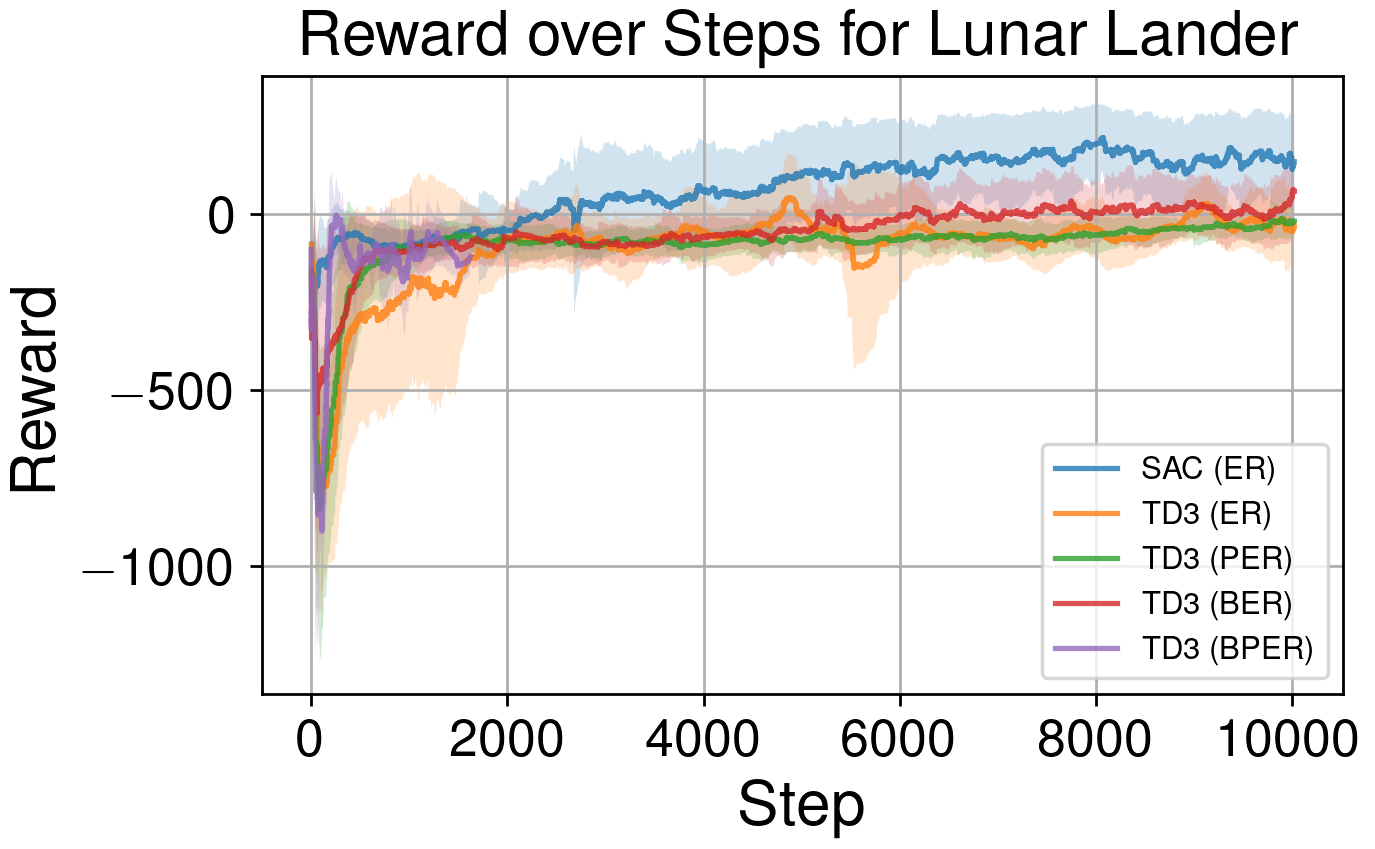
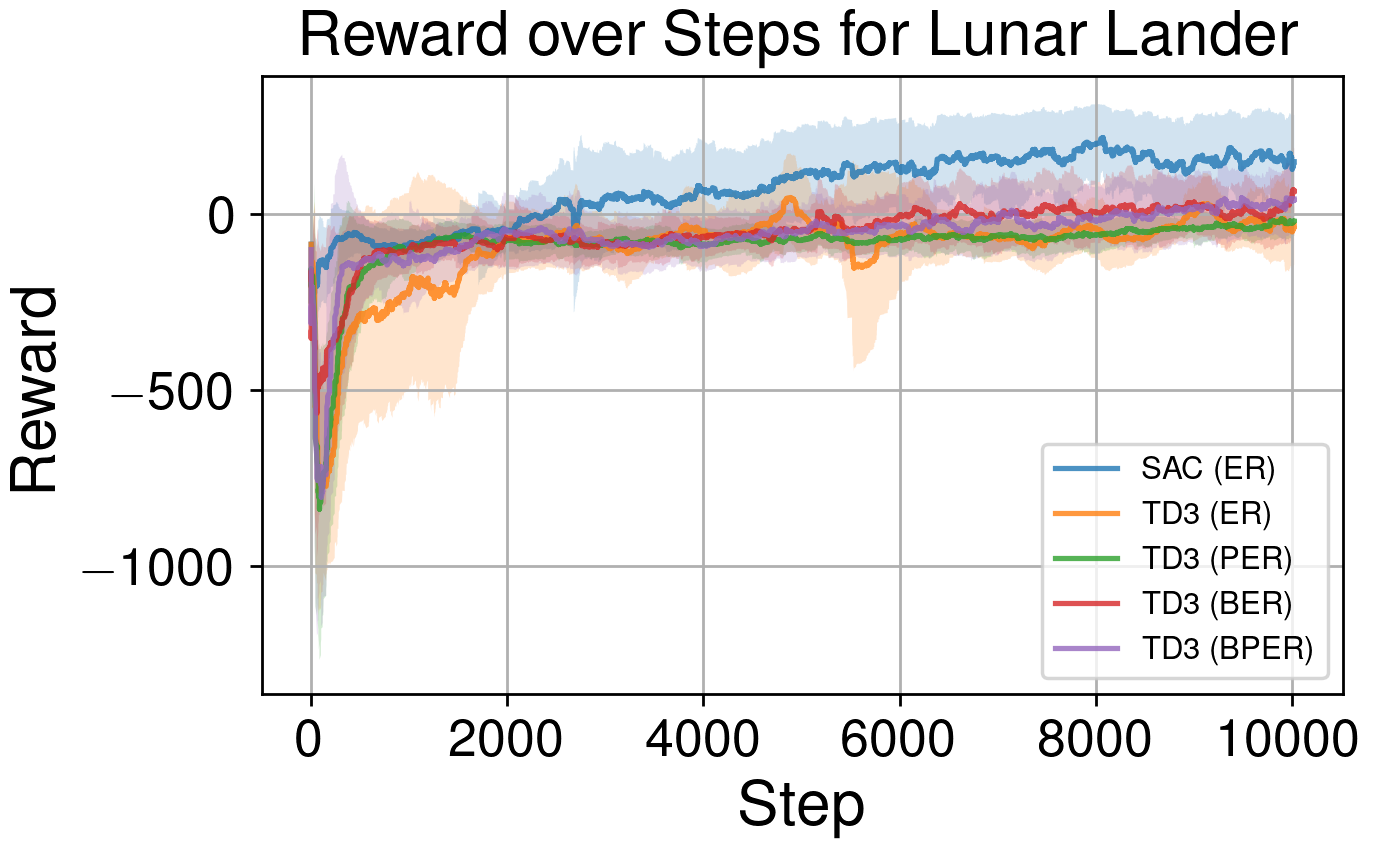
Added evaluation simple and buffer

Changed region(s): [[0.2138, 0.1837, 0.9469, 0.6125], [0.336, 0.8575, 0.3971, 0.8881], [0.2138, 0.8575, 0.2444, 0.8881]]

diff --git a/report/tables/hyperparameters_tables.tex b/report/tables/hyperparameters_tables.tex
@@ -1,67 +1,49 @@
-
-\begin{table}[htbp]
-    \centering
-    \caption{Hyperparameter Summary for Pendulum}
-    \label{tab:hyperparameters_pendulum}
-    \begin{tabular}{|l|l|l|l|l|l|}
-        \hline
-        \textbf{Agent} & \textbf{Noise} & \textbf{Actor Sizes} & \textbf{Critic Sizes} & \textbf{Buffer Type} & \textbf{Discount} \\ \hline
-
-        TD3 & $\sigma$=0.2, clip=0.8, $\beta$=1.0 & [128, 128] & [128, 128, 64] & ER & 0.95 \\ \hline
-
-        TD3 & $\sigma$=0.2, clip=0.8, $\beta$=1.0 & [128, 128] & [128, 128, 64] & BER & 0.95 \\ \hline
-
-        TD3 & $\sigma$=0.2, clip=0.8, $\beta$=1.0 & [128, 128] & [128, 128, 64] & PER & 0.95 \\ \hline
-
-        TD3 & $\sigma$=0.2, clip=0.8, $\beta$=1.0 & [128, 128] & [128, 128, 64] & BPER & 0.95 \\ \hline
-
-        SAC & N/A & [512, 256] & [512, 256, 64] & ER & 0.98 \\ \hline
-
-    \end{tabular}
+\begin{table}[H]
+\caption{Hyperparameter Summary for Pendulum }\centering {}
+\label{tab:hyperparameters_pendulum}
+\begin{tabular}{llllll}
+\toprule
+Agent & Noise & Actor Sizes & Critic Sizes & Buffer Type & Discount \\
+\midrule
+TD3 & $\sigma$=0.2, clip=0.8, $\beta$=1.0 & [128, 128] & [128, 128, 64] & ER & 0.95 \\
+TD3 & $\sigma$=0.2, clip=0.8, $\beta$=1.0 & [128, 128] & [128, 128, 64] & BER & 0.95 \\
+TD3 & $\sigma$=0.2, clip=0.8, $\beta$=1.0 & [128, 128] & [128, 128, 64] & PER & 0.95 \\
+TD3 & $\sigma$=0.2, clip=0.8, $\beta$=1.0 & [128, 128] & [128, 128, 64] & BPER & 0.95 \\
+SAC & N/A & [512, 256] & [512, 256, 64] & ER & 0.98 \\
+\bottomrule
+\end{tabular}
 \end{table}
 
 
-
-\begin{table}[htbp]
-    \centering
-    \caption{Hyperparameter Summary for LunarLander}
-    \label{tab:hyperparameters_lunarlander}
-    \begin{tabular}{|l|l|l|l|l|l|}
-        \hline
-        \textbf{Agent} & \textbf{Noise} & \textbf{Actor Sizes} & \textbf{Critic Sizes} & \textbf{Buffer Type} & \textbf{Discount} \\ \hline
-
-        TD3 & $\sigma$=0.2, clip=0.8, $\beta$=1.0 & [256, 256] & [256, 256, 128] & ER & 0.98 \\ \hline
-
-        TD3 & $\sigma$=0.2, clip=0.8, $\beta$=1.0 & [256, 256] & [256, 256, 128] & BER & 0.98 \\ \hline
-
-        TD3 & $\sigma$=0.2, clip=0.8, $\beta$=1.0 & [256, 256] & [256, 256, 128] & PER & 0.98 \\ \hline
-
-        TD3 & $\sigma$=0.2, clip=0.8, $\beta$=1.0 & [256, 256] & [256, 256, 128] & BPER & 0.98 \\ \hline
-
-        SAC & N/A & [512, 256] & [512, 256, 64] & ER & 0.98 \\ \hline
-
-    \end{tabular}
+\begin{table}[H]
+\caption{Hyperparameter Summary for LunarLander }\centering {}
+\label{tab:hyperparameters_lunarlander}
+\begin{tabular}{llllll}
+\toprule
+Agent & Noise & Actor Sizes & Critic Sizes & Buffer Type & Discount \\
+\midrule
+TD3 & $\sigma$=0.2, clip=0.8, $\beta$=1.0 & [256, 256] & [256, 256, 128] & ER & 0.98 \\
+TD3 & $\sigma$=0.2, clip=0.8, $\beta$=1.0 & [256, 256] & [256, 256, 128] & BER & 0.98 \\
+TD3 & $\sigma$=0.2, clip=0.8, $\beta$=1.0 & [256, 256] & [256, 256, 128] & PER & 0.98 \\
+TD3 & $\sigma$=0.2, clip=0.8, $\beta$=1.0 & [256, 256] & [256, 256, 128] & BPER & 0.98 \\
+SAC & N/A & [512, 256] & [512, 256, 64] & ER & 0.98 \\
+\bottomrule
+\end{tabular}
 \end{table}
 
 
-
-\begin{table}[htbp]
-    \centering
-    \caption{Hyperparameter Summary for HalfCheetah}
-    \label{tab:hyperparameters_halfcheetah}
-    \begin{tabular}{|l|l|l|l|l|l|}
-        \hline
-        \textbf{Agent} & \textbf{Noise} & \textbf{Actor Sizes} & \textbf{Critic Sizes} & \textbf{Buffer Type} & \textbf{Discount} \\ \hline
-
-        TD3 & $\sigma$=0.2, clip=0.8, $\beta$=1.0 & [256, 256] & [256, 256, 128] & ER & 0.95 \\ \hline
-
-        TD3 & $\sigma$=0.2, clip=0.8, $\beta$=1.0 & [256, 256] & [256, 256, 128] & BER & 0.95 \\ \hline
-
-        TD3 & $\sigma$=0.2, clip=0.8, $\beta$=1.0 & [256, 256] & [256, 256, 128] & PER & 0.95 \\ \hline
-
-        TD3 & $\sigma$=0.2, clip=0.8, $\beta$=1.0 & [256, 256] & [256, 256, 128] & BPER & 0.95 \\ \hline
-
-        SAC & N/A & [512, 256] & [512, 256, 64] & ER & 0.98 \\ \hline
-
-    \end{tabular}
+\begin{table}[H]
+\caption{Hyperparameter Summary for HalfCheetah }\centering {}
+\label{tab:hyperparameters_halfcheetah}
+\begin{tabular}{llllll}
+\toprule
+Agent & Noise & Actor Sizes & Critic Sizes & Buffer Type & Discount \\
+\midrule
+TD3 & $\sigma$=0.2, clip=0.8, $\beta$=1.0 & [256, 256] & [256, 256, 128] & ER & 0.95 \\
+TD3 & $\sigma$=0.2, clip=0.8, $\beta$=1.0 & [256, 256] & [256, 256, 128] & BER & 0.95 \\
+TD3 & $\sigma$=0.2, clip=0.8, $\beta$=1.0 & [256, 256] & [256, 256, 128] & PER & 0.95 \\
+TD3 & $\sigma$=0.2, clip=0.8, $\beta$=1.0 & [256, 256] & [256, 256, 128] & BPER & 0.95 \\
+SAC & N/A & [512, 256] & [512, 256, 64] & ER & 0.98 \\
+\bottomrule
+\end{tabular}
 \end{table}

diff --git a/report/plots/generate_hyperparams.py b/report/plots/generate_hyperparams.py
@@ -1,9 +1,19 @@
 import os
 
+import pandas as pd
 import yaml
 
 
-def parse_yaml_to_latex_tables(yaml_file):
+def parse_yaml_to_latex_tables_with_pandas(yaml_file):
+    """
+    Parse a YAML file and generate LaTeX tables using Pandas' to_latex method.
+
+    Args:
+        yaml_file (str): Path to the YAML file.
+
+    Returns:
+        str: A string containing LaTeX tables for all environments.
+    """
     # Load the YAML file
     with open(yaml_file, "r") as file:
         data = yaml.safe_load(file)
@@ -26,18 +36,8 @@ def parse_yaml_to_latex_tables(yaml_file):
         if not agents:
             continue
 
-        # Start building the LaTeX table for the current environment
-        latex_table = f"""
-\\begin{{table}}[htbp]
-    \\centering
-    \\caption{{Hyperparameter Summary for {env_name}}}
-    \\label{{tab:hyperparameters_{env_name.lower()}}}
-    \\begin{{tabular}}{{|l|l|l|l|l|l|}}
-        \\hline
-        \\textbf{{Agent}} & \\textbf{{Noise}} & \\textbf{{Actor Sizes}} & \\textbf{{Critic Sizes}} & \\textbf{{Buffer Type}} & \\textbf{{Discount}} \\\\ \\hline
-        """
-
-        # Add rows for each agent in the environment
+        # Create a DataFrame for the current environment
+        rows = []
         for agent_name, agent_data in agents:
             algorithm = agent_data.get("type", "N/A").upper()
             noise = (
@@ -50,16 +50,33 @@ def parse_yaml_to_latex_tables(yaml_file):
             buffer_type = agent_data.get("buffer_type", "ER")
             discount = agent_data.get("discount", "N/A")
 
-            # Add a row to the LaTeX table
-            latex_table += f"""
-        {algorithm} & {noise} & {actor_sizes} & {critic_sizes} & {buffer_type} & {discount} \\\\ \\hline
-            """
+            # Append a row to the DataFrame
+            rows.append(
+                {
+                    "Agent": algorithm,
+                    "Noise": noise,
+                    "Actor Sizes": actor_sizes,
+                    "Critic Sizes": critic_sizes,
+                    "Buffer Type": buffer_type,
+                    "Discount": discount,
+                }
+            )
 
-        # Close the LaTeX table for the current environment
-        latex_table += """
-    \\end{tabular}
-\\end{table}
-        """
+        # Convert rows to a Pandas DataFrame
+        df = pd.DataFrame(rows)
+
+        # Generate LaTeX table using Pandas' to_latex method
+        latex_table = df.to_latex(
+            index=False,  # Do not include the index column
+            caption="Hyperparameter Summary for " + env_name + " }\\centering {",
+            label=f"tab:hyperparameters_{env_name.lower()}",
+            column_format="llllll",  # Align columns with vertical lines
+            float_format="%.2f",  # Round values to 2 decimal places
+            escape=False,  # Allow LaTeX symbols like $ in the table
+            position="H",  # Place the table "Here"
+        )
+
+        # Append the LaTeX table to the result
         latex_tables += latex_table + "\n\n"
 
     return latex_tables
@@ -67,7 +84,7 @@ def parse_yaml_to_latex_tables(yaml_file):
 
 # Use the function to generate the LaTeX tables
 yaml_file = "../../config/temp.yaml"  # Replace with the path to your YAML file
-latex_tables = parse_yaml_to_latex_tables(yaml_file)
+latex_tables = parse_yaml_to_latex_tables_with_pandas(yaml_file)
 goal = "../tables/hyperparameters_tables.tex"
 
 os.makedirs(os.path.dirname(goal), exist_ok=True)

diff --git a/report/plots/small_eval.py b/report/plots/small_eval.py
@@ -1,4 +1,5 @@
 import os
+from turtle import position
 
 import matplotlib.pyplot as plt
 import pandas as pd
@@ -161,6 +162,86 @@ def plot_metrics(data, b2n, m2w, metrics, environments):
             plt.savefig(f"../images/small_eval_{env}_{metric}.png")
 
 
+def create_avg_reward_table_latex(data):
+    """
+    Create a table with the average reward for each environment and algorithm,
+    using only the last 100 steps, round values to 2 decimal places, format the
+    best scores in bold, sort by custom order, and export it to LaTeX.
+
+    Args:
+        data (pd.DataFrame): The combined DataFrame containing all environments and metrics.
+
+    Returns:
+        str: A LaTeX-formatted table as a string.
+    """
+    order = {
+        "sac-er": 0,
+        "td3-er": 1,
+        "td3-per": 2,
+        "td3-ber": 3,
+        "td3-bper": 4,
+    }
+
+    # Filter for the "Reward" metric
+    reward_data = data[data["Metric"] == "Reward"]
+
+    # Filter to include only the last 100 steps for each Environment and Algorithm-Buffer
+    last_100_steps = (
+        reward_data.groupby(["Environment", "Algorithm-Buffer"])
+        .apply(lambda group: group.nlargest(100, "Step"))
+        .reset_index(drop=True)
+    )
+
+    # Group by Environment and Algorithm-Buffer, then calculate the mean reward
+    avg_rewards = (
+        last_100_steps.groupby(["Environment", "Algorithm-Buffer"])["Value"]
+        .mean()
+        .reset_index()
+    )
+
+    # Round the values to 2 decimal places
+    avg_rewards["Value"] = avg_rewards["Value"].round(2)
+
+    # Pivot the table for better readability
+    reward_table = avg_rewards.pivot(
+        index="Environment", columns="Algorithm-Buffer", values="Value"
+    )
+
+    reward_table = reward_table[
+        [col for col in sorted(reward_table.columns, key=lambda x: order[x])]
+    ]
+
+    # Rename columns for better readability
+    reward_table.columns = [
+        f"{alg.split('-')[0].upper()} ({buffer2name[alg.split('-')[1]]})"
+        for alg in reward_table.columns
+    ]
+
+    # Reset index for a clean table
+    reward_table.reset_index(inplace=True)
+
+    # Format the best scores per environment in bold
+    for index, row in reward_table.iterrows():
+        max_value = row[1:].max()  # Exclude the 'Environment' column
+        for col in reward_table.columns[1:]:
+            if row[col] == max_value:
+                reward_table.at[index, col] = f"\\textbf{{{row[col]:.2f}}}"
+            else:
+                reward_table.at[index, col] = f"{row[col]:.2f}"
+
+    # Convert the table to LaTeX format
+    latex_table = reward_table.to_latex(
+        index=False,  # Do not include the index in the LaTeX table
+        caption="Average Reward for Simple Environments and Algorithm (Last 100 Steps)}\\centering {",
+        label="tab:avg_reward",
+        column_format="l" + "r" * (len(reward_table.columns) - 1),  # Align columns
+        escape=False,  # Allow LaTeX symbols like \textbf{}
+        position="H",
+    )
+
+    return latex_table
+
+
 plot_metrics(
     copy,
     buffer2name,
@@ -168,3 +249,7 @@ plot_metrics(
     ["Reward", "Loss", "ActorLoss", "AlphaLoss"],
     ["Pendulum", "HalfCheetah", "Lunar Lander"],
 )
+
+reward_table = create_avg_reward_table_latex(copy)
+with open("../tables/avg_reward_table_simple_eval.tex", "w") as f:
+    f.write(reward_table)

diff --git a/report/buffers.tex b/report/buffers.tex
@@ -7,14 +7,3 @@ The basic approach for modelling experience buffers are \ac{ER} buffers \cite{li
 \paragraph{\acl{PER}} \ac{PER} is introduced by \cite{schaul2015prioritized} and focuses on prioritizing experiences with an big \ac{TD}-error. Thus, each experience $j$ has a sampling probability $P(j) = \frac{\delta_j^\alpha}{\sum_{i}\delta_i^\alpha}$, where $\delta_i$ is the \ac{TD}-error of experience $i$ and $\alpha$ is an hyperparameter describing the influence of the priorities. In general, each metric can be used to assign priorities but may lead to a bias towards the sampled data. To further balance the sampling we implement the buffer as SumTrees, which allow sampling and adding data in $O(log\,n)$ and is proposed by \cite{schaul2015prioritized} for more efficient buffers.
 
 \paragraph{\acl{BPER}} \ac{BPER} is a combination of balancing the probability by the memory strength and assigning a priority to the experience. Therefore, we use effective priorities $e_i = p^\alpha_i \cdot s_i$, where $p_i$ is the priority and $s_i$ the memory strength of sample $i$. These effective priorities are then translated into the sampling probability. Furthermore, we use as $p_i$ the normalized reward $r_i' = \frac{r_i - \min_j r_j}{\max_j r_j - \min_j r_j}$, because we want experiences with highest rewards, which introduces a bias towards experiences with high reward. After sampling the experiences, the old rewards of the sampled data are updated with the new rewards.
-
-
-
-% TODO: In Eval
-
-\begin{figure}[ht]
-    \centering
-    \includegraphics[width=0.8\textwidth]{images/buffer_sampling.png}
-    \caption{Sample frequency of the experiences for \ac{ER}, \ac{BER}, \ac{PER} and \ac{BPER}. The X-axis is displayed in log scale and the plot contains the moving average and confidence interval with a window size of $1000$.}
-    \label{fig:buffer}
-\end{figure}

diff --git a/report/reward.tex b/report/reward.tex
@@ -2,4 +2,4 @@
 
 The hockey environment already provides a set of reward signals, including a positive signal for winning, the distance to the ball, contact to the ball and the direction of the pucks' movement. As we observed our early state agents have problems to play the puck when it starts on their side. Therefore, we added  a time penalty which decreases the overall reward for the complete run and a penalty for not touching the not moving puck after $10\%$ of the environment steps.
 
-Additionally, \ac{TD3} with \ac{BPER} has a problem with aggressive game play. Thus, we added reward for touching the ball when it is moving with negative x-velocity. To further force the agent to minimize its distance to the goal center, we added a linear reward for small distances. To combine all signals, we added weights $w_i$ for all reward signals $r_i$ and provide the agent to weighted sum over all signals $R = \sum_{i=1}^8 w_i \cdot r_i$.
+Additionally, \ac{TD3} with \ac{BPER} has a problem with aggressive game play. Thus, we added reward for touching the ball when it is moving with negative x-velocity. To further force the agent to minimize its distance to the goal center, we added a linear reward for small distances. To combine all signals, we added weights $w_i$ for all reward signals $r_i$ and provide the agent the weighted sum over all signals $R = \sum_{i=1}^8 w_i \cdot r_i$.

diff --git a/report/buffer_eval.tex b/report/buffer_eval.tex
@@ -1,0 +1,12 @@
+\subsection{Sampling Behavior of Buffers} \label{subsec:buffer_eval}
+
+To validate the sampling behavior of the implemented buffers, \autoref{fig:buffer} shows the sample frequency for each added time step over 100 samples. The results are generated by adding experiences until the buffer is full. Additionally, \ac{PER} and \ac{BPER} get random \ac{TD}-errors and rewards per experience, to model the expected behavior.
+
+\begin{figure}[h]
+    \centering
+    \includegraphics[width=0.8\textwidth]{images/buffer_sampling.png}
+    \caption{Sample frequency of the experiences for \ac{ER}, \ac{BER}, \ac{PER} and \ac{BPER}. The X-axis is displayed in log scale and the plot contains the moving average and confidence interval with a window size of $1000$.}
+    \label{fig:buffer}
+\end{figure}
+
+As result, all adapted buffers have less sampling weight on early experiences than \ac{ER}, indicating that the implemented buffers behave as expected. Furthermore, the prioritized versions have a higher variance, which is related to sampling depending on the assigned random priorities. With these results, we expect that all buffers will converge faster than \ac{ER} because the oversampling of early experiences is reduced by all implementations.

diff --git a/report/template.tex b/report/template.tex
@@ -10,6 +10,8 @@
 \usepackage{amsmath}       % blackboard math symbols
 \usepackage{amssymb}
 \usepackage{placeins}
+\usepackage{booktabs}
+\usepackage{float}
 \usepackage{hyperref}
 
 \usepackage{tikz}
@@ -72,6 +74,12 @@ Lorem ipsum dolor sit amet, consectetur adipiscing elit. Sed do eiusmod tempor i
 
 
 \input{hybrid_model.tex}
+\section{Evaluation}
+With all our methodlogies in place, we now investigate their performance in different domains. We start with analysing the sampling behavior of the four implemented buffer types (Section \ref{subsec:buffer_eval}), then we compare the performance on 3 simple environments (Section \ref{subsec:simple_eval}), to show the impact of our modifications at well-known reinforcement learning benchmarks. Finally, we are focusing on the hockey environment, were the trainging the foundation models is anlysed and compared to the results of the simple environments (Section \ref{subsec:hockey_eval}).
+
+\input{buffer_eval.tex}
+\input{simple_eval.tex}
+\input{hockey_eval.tex}
 
 \input{appendix.tex}
 

diff --git a/report/simple_eval.tex b/report/simple_eval.tex
@@ -1,0 +1,5 @@
+\subsection{Training on Simple Environments} \label{subsec:simple_eval}
+
+We trained the introduced algorithms first on simple environments, also used in the lecture. Therefore, we compare \ac{TD3} with the different buffers and basic \ac{SAC} on Pendulum, Lunar Lander and HalfCheetah. In this step we exclude our hybrid approach because it was specifically developed for the hockey environment. With the attached hyperparameters (Appendix \ref{sec:hyper_simple}), we can observe that \ac{SAC} has higher average returns after 10000 steps than all \ac{TD3} implementations and \ac{TD3} with \ac{BER} outperforms the other buffer implementations in HalfCheetah and Lunar Lander (\autoref{tab:avg_reward}). Additionally, \ac{PER} performs always better than \ac{ER}. Although, \ac{BPER} is converging faster and hits earlier better rewards (\autoref{sec:simple_plots}) with an faster converging policy, it has the worst final return.
+
+\input{tables/avg_reward_table_simple_eval.tex}

diff --git a/report/tables/avg_reward_table_simple_eval.tex b/report/tables/avg_reward_table_simple_eval.tex
@@ -1,0 +1,13 @@
+\begin{table}[H]
+\caption{Average Reward for Simple Environments and Algorithm (Last 100 Steps)}\centering {}
+\label{tab:avg_reward}
+\begin{tabular}{lrrrrr}
+\toprule
+Environment & SAC (ER) & TD3 (ER) & TD3 (PER) & TD3 (BER) & TD3 (BPER) \\
+\midrule
+HalfCheetah & \textbf{3296.86} & 1739.69 & 1874.47 & 1999.50 & 1417.75 \\
+Lunar Lander & \textbf{143.82} & -41.53 & -22.13 & 61.10 & 41.41 \\
+Pendulum & -249.59 & -163.91 & \textbf{-145.48} & -181.35 & -177.51 \\
+\bottomrule
+\end{tabular}
+\end{table}

diff --git a/report/appendix.tex b/report/appendix.tex
@@ -7,12 +7,12 @@
 \newpage
 \section{Additional Plots and Hyperparameter}
 
-\subsection{Hyperparameter for evaluation}
+\subsection{Hyperparameter for evaluation} \label{sec:hyper_simple}
 
 \input{tables/hyperparameters_tables.tex}
 
 \newpage
-\subsection{Evaluation Plots for Pendulum}
+\subsection{Evaluation Plots for Pendulum} \label{sec:simple_plots}
 
 \begin{figure}[!h]
     \centering

diff --git a/report/hockey_eval.tex b/report/hockey_eval.tex
@@ -1,0 +1,1 @@
+…\subsection{Hockey Environment} \label{subsec:hockey_eval}
